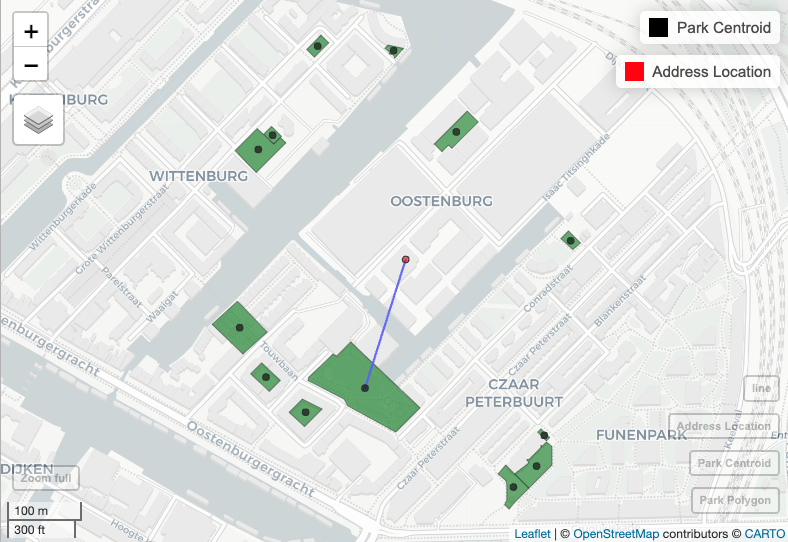
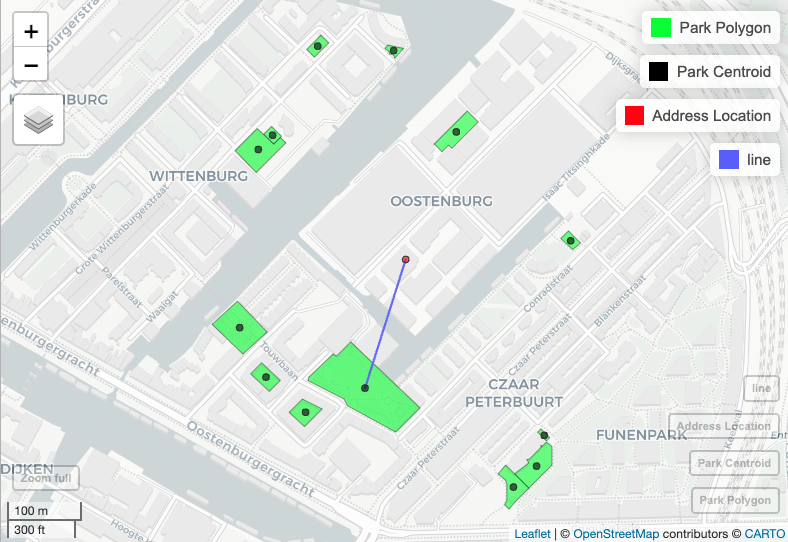
readme update

diff --git a/README.md b/README.md
@@ -369,8 +369,25 @@ Projected CRS: Amersfoort / RD New
 1   1           178.7477                      TRUE POINT (123603.6 487073.4)
 ```
 
+--- 
 
+**Example 2**
 
+The first example will use a network distance to the greenspace centroids, thus the network distance from the address location to the nearest greenspace centroid will be calculated. The figure below showcases an example in Amsterdam, where the parks are in green and the euclidean distance to the nearest park centroid is shown with a blue line, the park centroids are in black. As you can see in the plot the lines do not intersect with the points, this is because the lines are retrieved from OSM network file and do the centroids of the parks and the address centroid are not on the line. 
+
+![](man/figures/Network_path_accessibility.png)
+
+``` r
+greenspace_access(df_point, buffer_distance = 300, euclidean=F)
+
+Simple feature collection with 1 feature and 3 fields
+Geometry type: POINT
+Dimension:     XY
+Bounding box:  xmin: 123603.6 ymin: 487073.4 xmax: 123603.6 ymax: 487073.4
+Projected CRS: Amersfoort / RD New
+  UID closest_greenspace greenspace_in_300m_buffer                  geometry
+1   1           263.8876                      TRUE POINT (123603.6 487073.4)
+```
 ---
 
 ## Visibility
